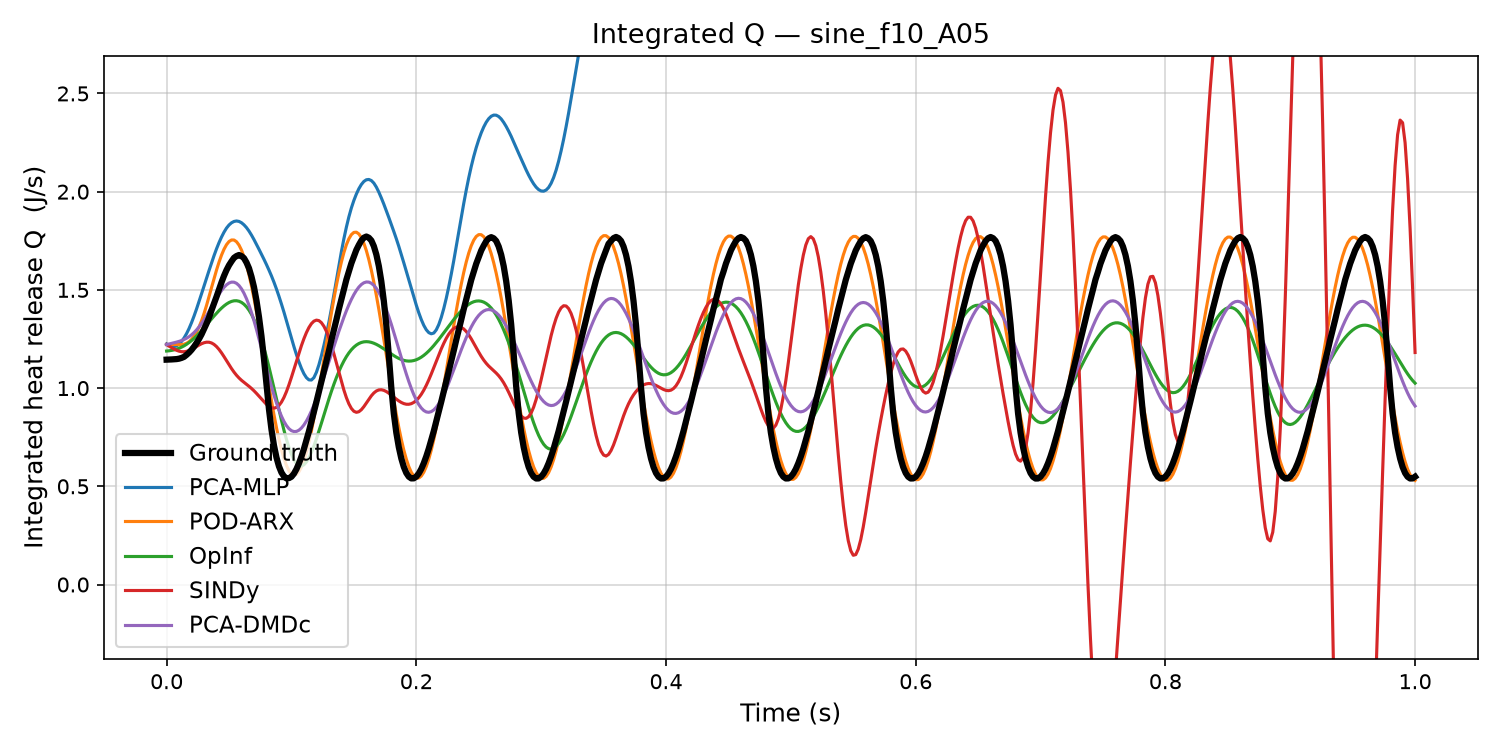
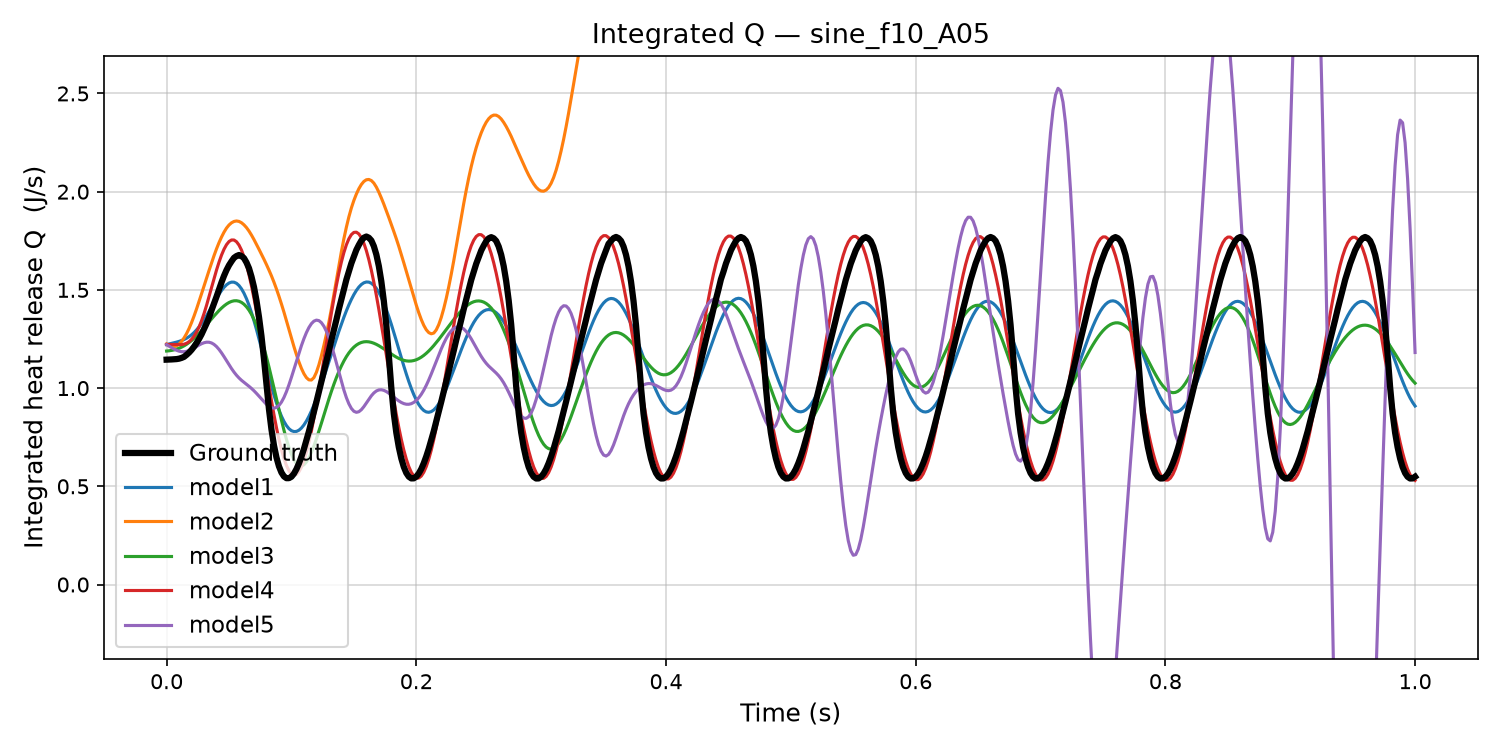
style: changed Q plots

diff --git a/organizer_scripts/plot_final_results_Q.py b/organizer_scripts/plot_final_results_Q.py
@@ -24,11 +24,11 @@ import matplotlib.pyplot as plt
 
 MODEL_NAMES = [
     #"sample",       # → ../bundle/sample_output_data/
-    "PCA-MLP",
-    "POD-ARX",
-    "OpInf",
-    "SINDy",
-    "PCA-DMDc",
+    "model1",
+    "model2",
+    "model3",
+    "model4",
+    "model5",
 ]
 
 SIM_NAME = "sine_f10_A05"   # always in the test split
